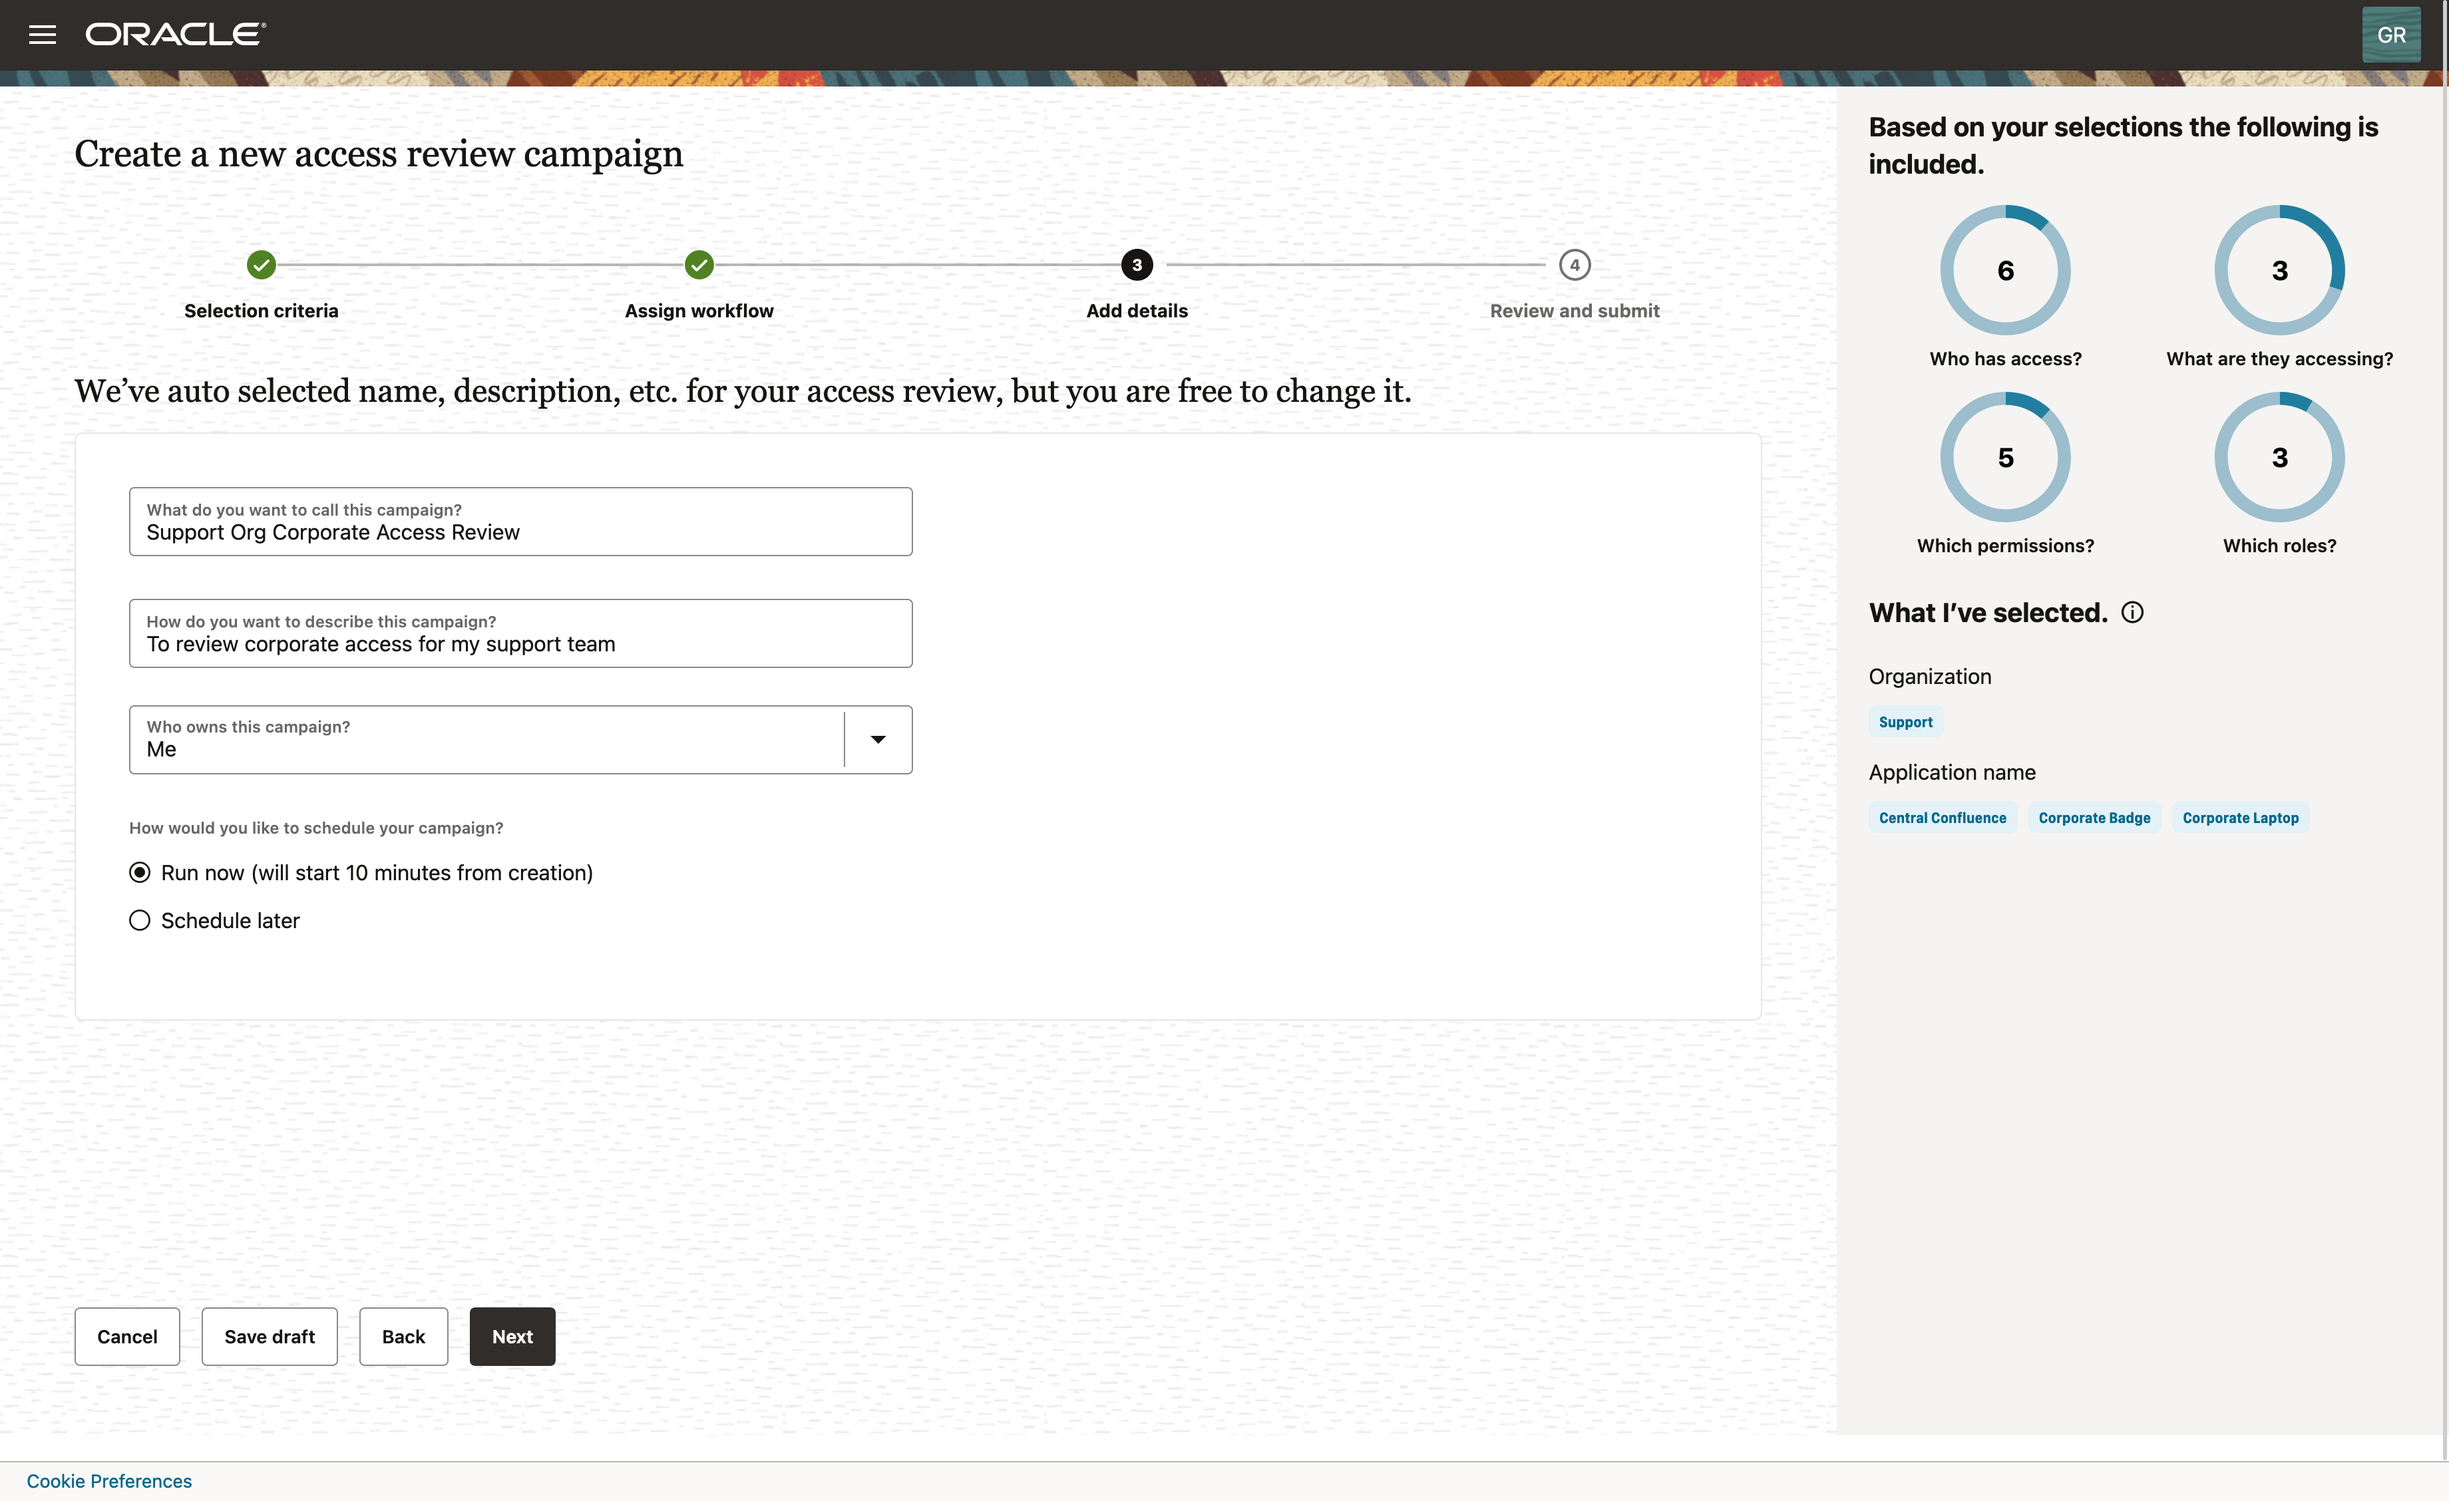
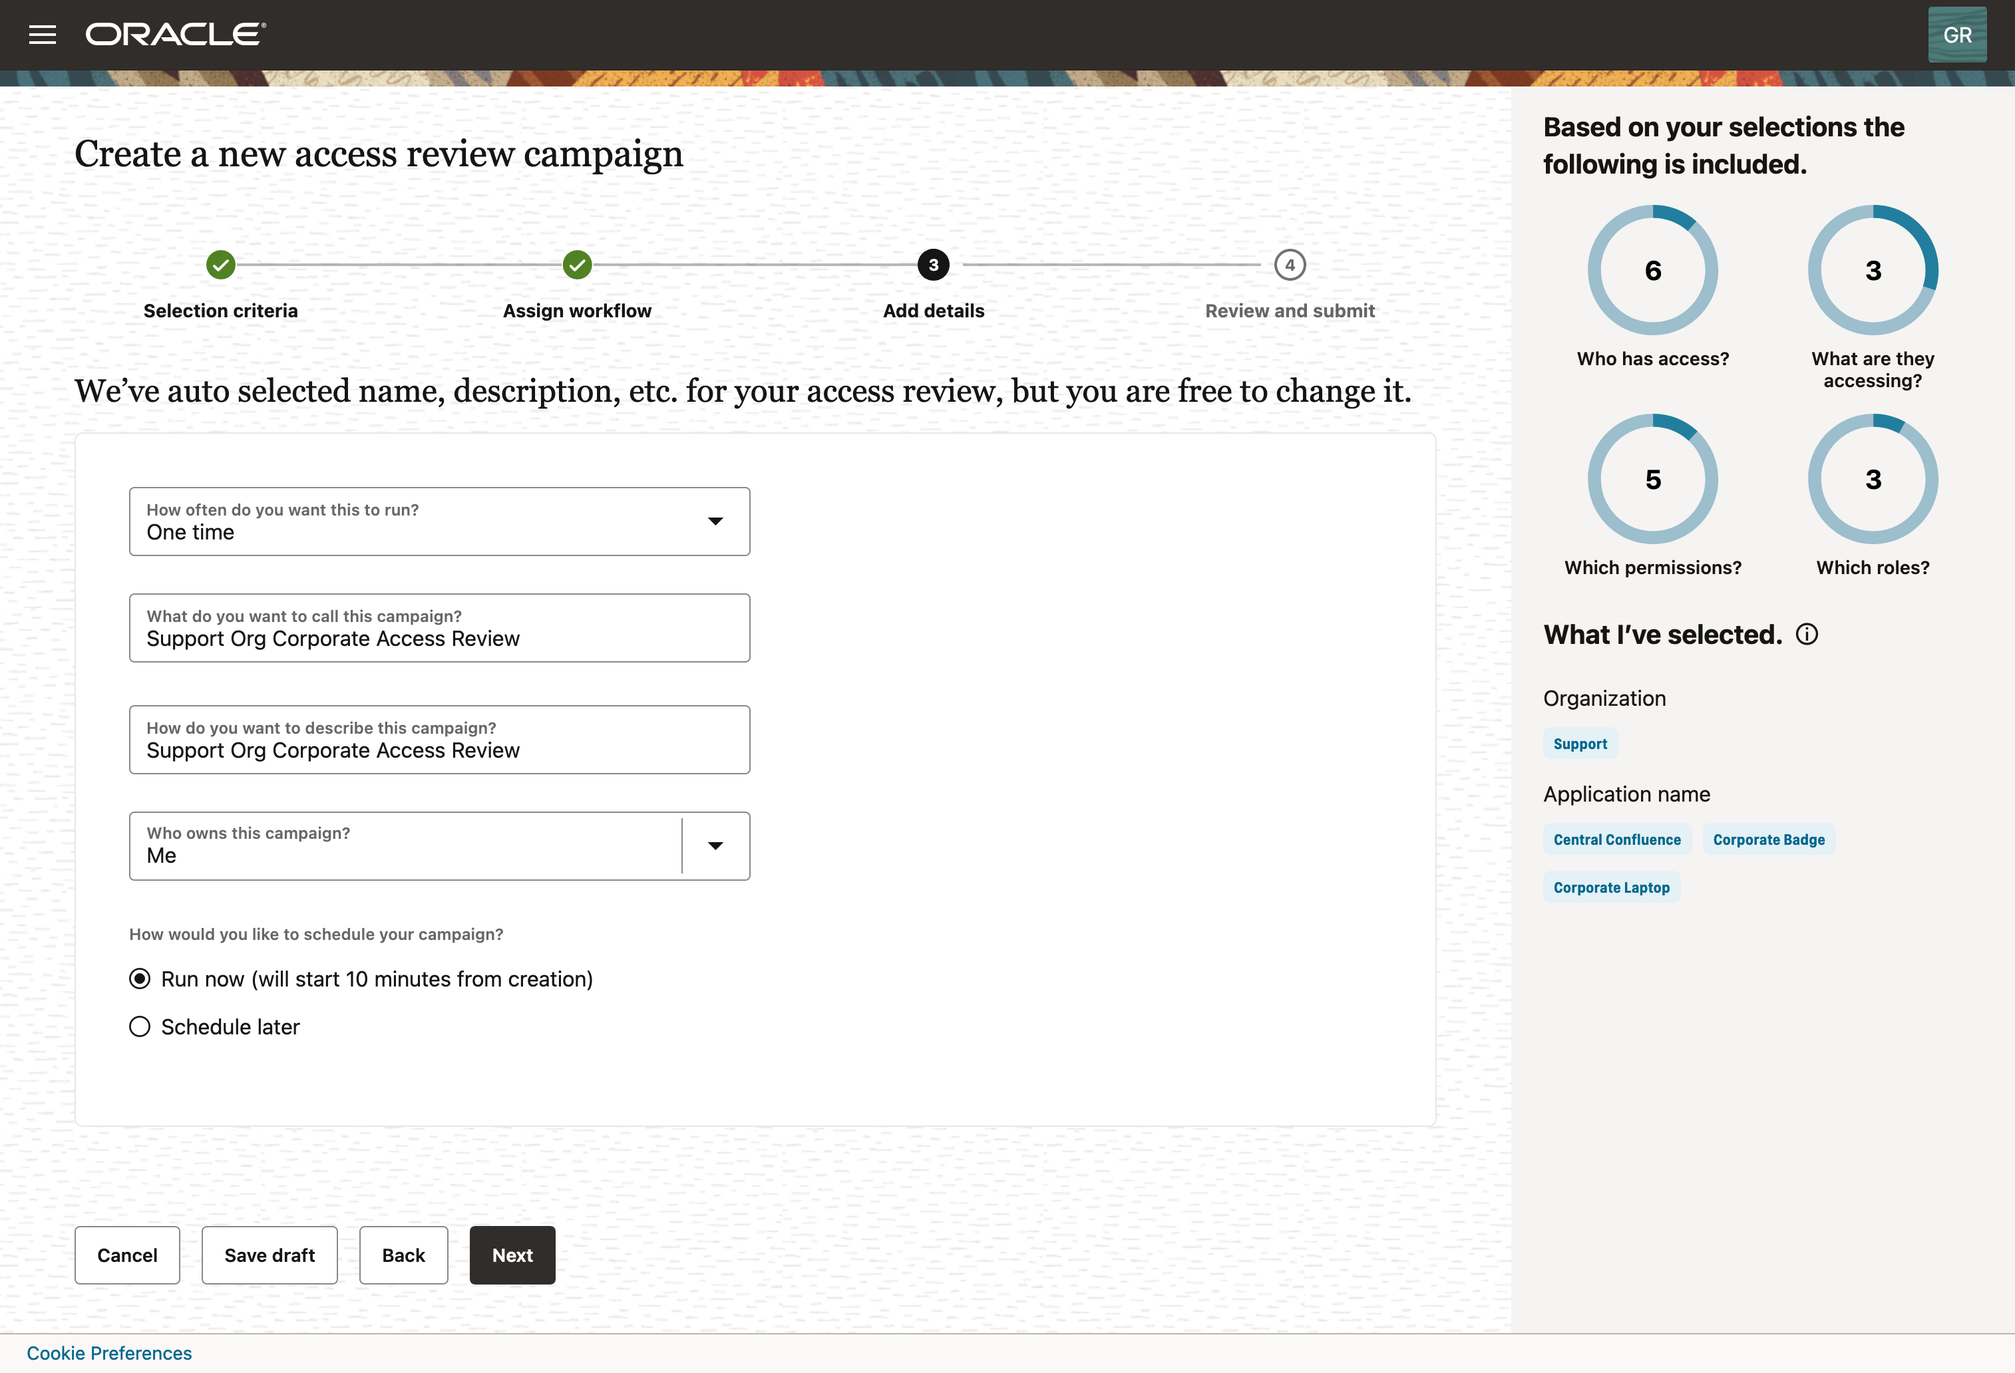
WMS ID: 11134 - Update OCW22- HOL4305 Access Governance LiveLabs 10-4-2022 (#31)
* Add Access Governance LiveLabs for CloudWorld

Add Access Governance LiveLabs for CloudWorld

* Commit changes for 8/18 Thursday for AG LiveLabs

Commit changes for 8/18 Thursday.

* Update changes on Aug 23 AG Lab

Update changes on Aug 23 AG Lab

* Commit AG LiveLabs 8/29/2022

Commit AG LiveLabs 8/29/2022

* Update AG LiveLabs Sept 6 2022

Update AG LiveLabs Sept 6 2022

* Update CloudWorld HOL4305 LiveLabs based on feedback 09-08-2022

Update CloudWorld HOL4305 LiveLabs based on feedback 09-08-2022

* CloudWorld HOL4305 Access Governance LiveLabs update 09-18-2022

CloudWorld HOL4305 Access Governance LiveLabs update 09-18-2022

* OCW-22 HOL4305 Access Governance Lab Update 10/3/2022

OCW-22 HOL4305 Access Governance Lab Update 10/3/2022

* Update OCW22-HOL4305 Lab 10-4-2022

Update OCW22-HOL4305 Lab 10-4-2022

diff --git a/accessgovernance/workshops/ocw-freetier/index.html b/accessgovernance/workshops/ocw-freetier/index.html
@@ -1,0 +1,62 @@
+<!DOCTYPE html>
+<html lang="en">
+
+<head>
+    <meta charset="utf-8">
+    <meta http-equiv="X-UA-Compatible" content="IE=edge">
+    <meta name="viewport" content="width=device-width, initial-scale=1">
+    <meta name="description" content="Oracle LiveLabs gives you access to Oracle's products to run a wide variety of labs and workshops; allowing you to experience our best technology, live!">
+    <title>Oracle LiveLabs</title>
+
+    <script src="https://oracle-livelabs.github.io/common/redwood-hol/js/jquery-1.11.0.min.js"></script>
+    <script src="https://oracle-livelabs.github.io/common/redwood-hol/js/jquery-ui-1.10.4.custom.js"></script>
+    <script src="https://oracle-livelabs.github.io/common/redwood-hol/js/main.min.js"></script>
+
+    <link rel="stylesheet" href="https://oracle-livelabs.github.io/common/redwood-hol/css/style.min.css" />
+    <link rel="shortcut icon" href="https://oracle-livelabs.github.io/common/redwood-hol/img/favicon.ico" />
+</head>
+
+<body>
+    <header class="hol-Header" role="banner">
+        <div class="hol-Header-wrap">
+            <div class="hol-Header-logo"><span>Oracle LiveLabs</span></div>
+            <a href="https://developer.oracle.com/livelabs" target="_blank" id="livelabs" title="Oracle LiveLabs"></a>
+            <div class="hol-Header-actions">
+                <button id="openNav" class="hol-Header-button hol-Header-button--menu rightNav" aria-label="Open Menu"
+                    title="Open Menu">
+                    <span class="hol-Header-toggleIcon"></span>
+                </button>
+            </div>
+        </div>
+    </header>
+
+    <div id="container">
+        <div id="leftNav">
+            <div id="toc"></div>
+        </div>
+        <div id="contentBox">
+            <main class="hol-Content" id="module-content"></main>
+        </div>
+    </div>
+
+      <footer class="hol-Footer">
+        <a class="hol-Footer-topLink" href="#top">Return to Top</a>
+        <div id="footer-banner"><div class="footer-row">
+          <div class="footer-content"><ul class="footer-links">
+              <li><a href="https://docs.oracle.com/pls/topic/lookup?ctx=en/legal&id=cpyr" target="_blank" aria-label="Open a new window to Oracle legal notices" data-lbl="copyright">© Oracle</a></li>
+              <li><a href="https://www.oracle.com/corporate/index.html" target="_blank" aria-label="Open a new window to learn more about oracle" data-lbl="about-oracle">About Oracle</a></li>
+              <li><a href="https://www.oracle.com/corporate/contact/" target="_blank" aria-label="Open a new window to contact oracle" data-lbl="contact-us">Contact Us</a></li>
+              <li class="footer-links-break"></li>
+              <li><a href="https://docs.oracle.com/en/browseall.html" target="_blank" aria-label="Open a new window to products a-z" data-lbl="products-a-z">Products A-Z</a></li>
+              <li><a href="https://www.oracle.com/legal/privacy/" target="_blank" aria-label="Open a new window to read more about Oracle terms of use and privacy" data-lbl="terms-of-use-and-privacy">Terms of Use & Privacy</a></li>
+              <li><a href="https://www.oracle.com/legal/privacy/privacy-policy.html#11" target="_blank" aria-label="Open a new window to read more about managing Oracle cookie preferences" data-lbl="cookie-preferences">Cookie Preferences</a></li>
+              <li><a href="https://www.oracle.com/legal/privacy/marketing-cloud-data-cloud-privacy-policy.html#adchoices" target="_blank" aria-label="Open a new window to ad choices" data-lbl="ad-choices">Ad Choices</a></li>
+              <li class="footer-links-break"></li><li class="last"><a href="https://docs.oracle.com/pls/topic/lookup?ctx=en/legal&id=cpyr" target="_blank" aria-label="Open a new window to Oracle legal notices" data-lbl="copyright">© Oracle</a></li>
+            </ul>
+          </div>
+        </div>
+      </div>
+    </footer>
+</body>
+
+</html>

diff --git a/accessgovernance/perform-access-review/perform-access-review.md b/accessgovernance/perform-access-review/perform-access-review.md
@@ -35,7 +35,7 @@ In this lab, you will:
 
 1. Select one of the Access Reviews Tasks tiles. For this lab, click on the **Select** button of the tile **I'm feeling ambitious, let's review all...**
   ![Access Review Tasks](images/open-menu-review.png)
-2. You will see a list of **access review tasks** assigned to you from the **access review campaigns** scheduled from the first lab. Find the access review tasks created from the first lab based on the **Campaign name** in the middle column of the table, which you note down in **Lab 1**. In case the **campaign** from the first lab has not been started yet, you can also pick a **review task** from a pre-configured campaign. In that case, select the access review tasks with **Campaign name** as **...Org Access Review Example**, for example, **Support Org Access Review Example**. To review the access, please follow the below steps:
+2. You will see a list of **access review tasks** assigned to you from the **access review campaigns** scheduled from the first lab. You may do a search and find the access review tasks created from the first lab based on the **Review source** aka **Campaign name** value in the middle column of the table, which you note down in **Lab 1**. In case the **campaign** from the first lab has not been started yet, you can also pick a **review task** from a pre-configured campaign. In that case, select the access review tasks with **Review source** as **...Org Access Review Example**, for example, **Support Org Access Review Example**. To review the access, please follow the below steps:
     - Check review task information such as **Identity name**, **Assignment name**, **Manager name**, **Assignment type**, and **Due days** for which the task is raised.
     - Filter the review tasks list by selecting **Recommend Accept** or **Recommend Review**. Based on **Prescriptive Analytics** powered by ML algorithm, **Oracle Access Governance** recommends action for each review item based on calculated risk scores and analytics. 
     - You may choose to accept the review item by clicking on **Accept** in the **Actions** column. This action is suggested for **Recommendation Accept** items only. 
@@ -73,7 +73,7 @@ Insights include:
 
 1. In this lab, the user manager is the second-level reviewer. As user manager, you see the access review items your employee users accept in the previous task. Click on the **Select** button of the tile **I'm feeling ambitious, let's review all...**. As an alternative, you can also click the **Select** button for the tile **I am busy, let's just review...** to review **high risk** items only. 
   ![Image alt text](images/open-menu-manager-review.png)
-2. You will see a list of access review tasks assigned to you from access review campaigns or from your employee's access review results which you are the second-level reviewer as manager. Search the review task triggered by the last **employee user review** lab step by **Identity name** and **Assignment name**. For review tasks:
+2. You will see a list of access review tasks assigned to you from access review campaigns or from your employee's access review results which you are the second-level reviewer as manager. Search the review task triggered by the last **employee user review** lab step by **Identity name** and **Assignment name**. You may narrow down the list by searching the access review tasks based on the **Review source** aka **Campaign name** value in the middle column of the table. For review tasks:
     - Check review task information such as **Identity name**, **Assignment name**, **Manager name**, **Assignment type**, and **Due days** for which the task is raised.
     - Filter the review tasks list by selecting **Recommendation Accept** or **Recommendation Review**. Based on **Prescriptive Analytics** powered by **AI/ML algorithm**, **Oracle Access Governance** recommends action for each review item based on calculated risk scores and analytics.
     - You may choose to accept or revoke the review item by clicking on **Accept** or **Revoke** in the **Actions** column. The **Accept** action is suggested for **Recommendation Accept** items only.

diff --git a/accessgovernance/create-campaign/create-campaign.md b/accessgovernance/create-campaign/create-campaign.md
@@ -44,11 +44,11 @@ In this lab, you will:
 7. Review the auto-selected workflow and reviewers. You can change those if required. For example, clicking on **I'll choose my own workflow** will open up **configure workflow** menu. For this lab, you may not need to change workflow and reviewers. Accept the default and click on **Next**. With this setup, access reviews go to **employee user** first, after the employee self review, it will go to the second reviewer **user manager** for approval.
  ![Default Workflow](images/configure-workflow.png)
  ![Default Workflow](images/default-workflow.png)
-8. You may provide a campaign name and description of your choice. For example, enter the campaign name such as **Support Org Corporate Access Review**, enter the description you prefer, select **Run now** and click on the **Next** button to schedule the campaign.
+8. Accept default value **One time** for the field **How often do you want this to run?**. You may provide a campaign name and description of your choice. For example, enter the campaign name such as **Support Org Corporate Access Review**, enter the description you prefer, select **Run now** and click on the **Next** button to schedule the campaign. Note the **campaign name** for reference in the next lab to search for your newly created access review campaign. For reviewers, the **campaign name** is referred to as **Review source** in the review tasks dashboard. 
  ![Name Campaign](images/name-campaign.png)
-9. You may review the selected campaign criteria, workflow, reviewers, and the run schedule. For this lab, click on the **Create** button to create and schedule a campaign. The campaign will start approximately **10 minutes** from creation. Note the **campaign name** for reference in the next lab to search for your newly created access review campaign. 
+9. You may review the selected campaign criteria, workflow, reviewers, and the run schedule. For this lab, click on the **Create** button to create and schedule a campaign. The campaign will start approximately **10 minutes** from creation.  
  ![View Charts](images/summary.png)
-10. A newly created campaign **Support Org Corporate Access Review** is scheduled in **My upcoming campaigns** section.
+10. A newly created campaign **Support Org Corporate Access Review** is scheduled in **My upcoming campaigns** section. It takes approximately 10 minutes for **the newly created campaign** to move to **in progress** status. 
  ![View Charts](images/view-created-campaign.png)
  11. During this lab, you have navigated the **Oracle Access Governance** console and created a **User Access Review campaign** as a **campaign administrator**.
  12. You may now **proceed to the next lab**. 

diff --git a/accessgovernance/review-who-has-access/review-who-has-access.md b/accessgovernance/review-who-has-access/review-who-has-access.md
@@ -33,7 +33,7 @@ In this lab, you will:
   ![My Direct Menu](images/open-menu-direct.png)
 2. You will see a list of users reporting to the current user manager. You may select one user. For example, Select **George Jimenez** as an example in the below screen. **Please note employee users in your assigned system might be different from LiveLabs step screenshot.** 
   ![Review Direct List](images/review-direct-list.png)
-3. A list of applications to which **George Jimenez** has access is listed. You can select each application and review the privileges assigned to the user in the selected application. Review what **applications** your employee has, **Permission**, **Grant Type**, **Date Granted** etc. 
+3. A list of applications to which **George Jimenez** has access is listed. You can select each application and review the privileges assigned to the user in the selected application. Review what **applications** your employee has, **Accounts**, **Permission**, **Grant Type**, **Date Granted** etc. 
   ![Review Application](images/review-individual-app.png)
 4. Select **Roles** from **Group-by** drop-down menu to see the list of roles assigned to a user.
   ![Review Role](images/review-individual-role.png)
